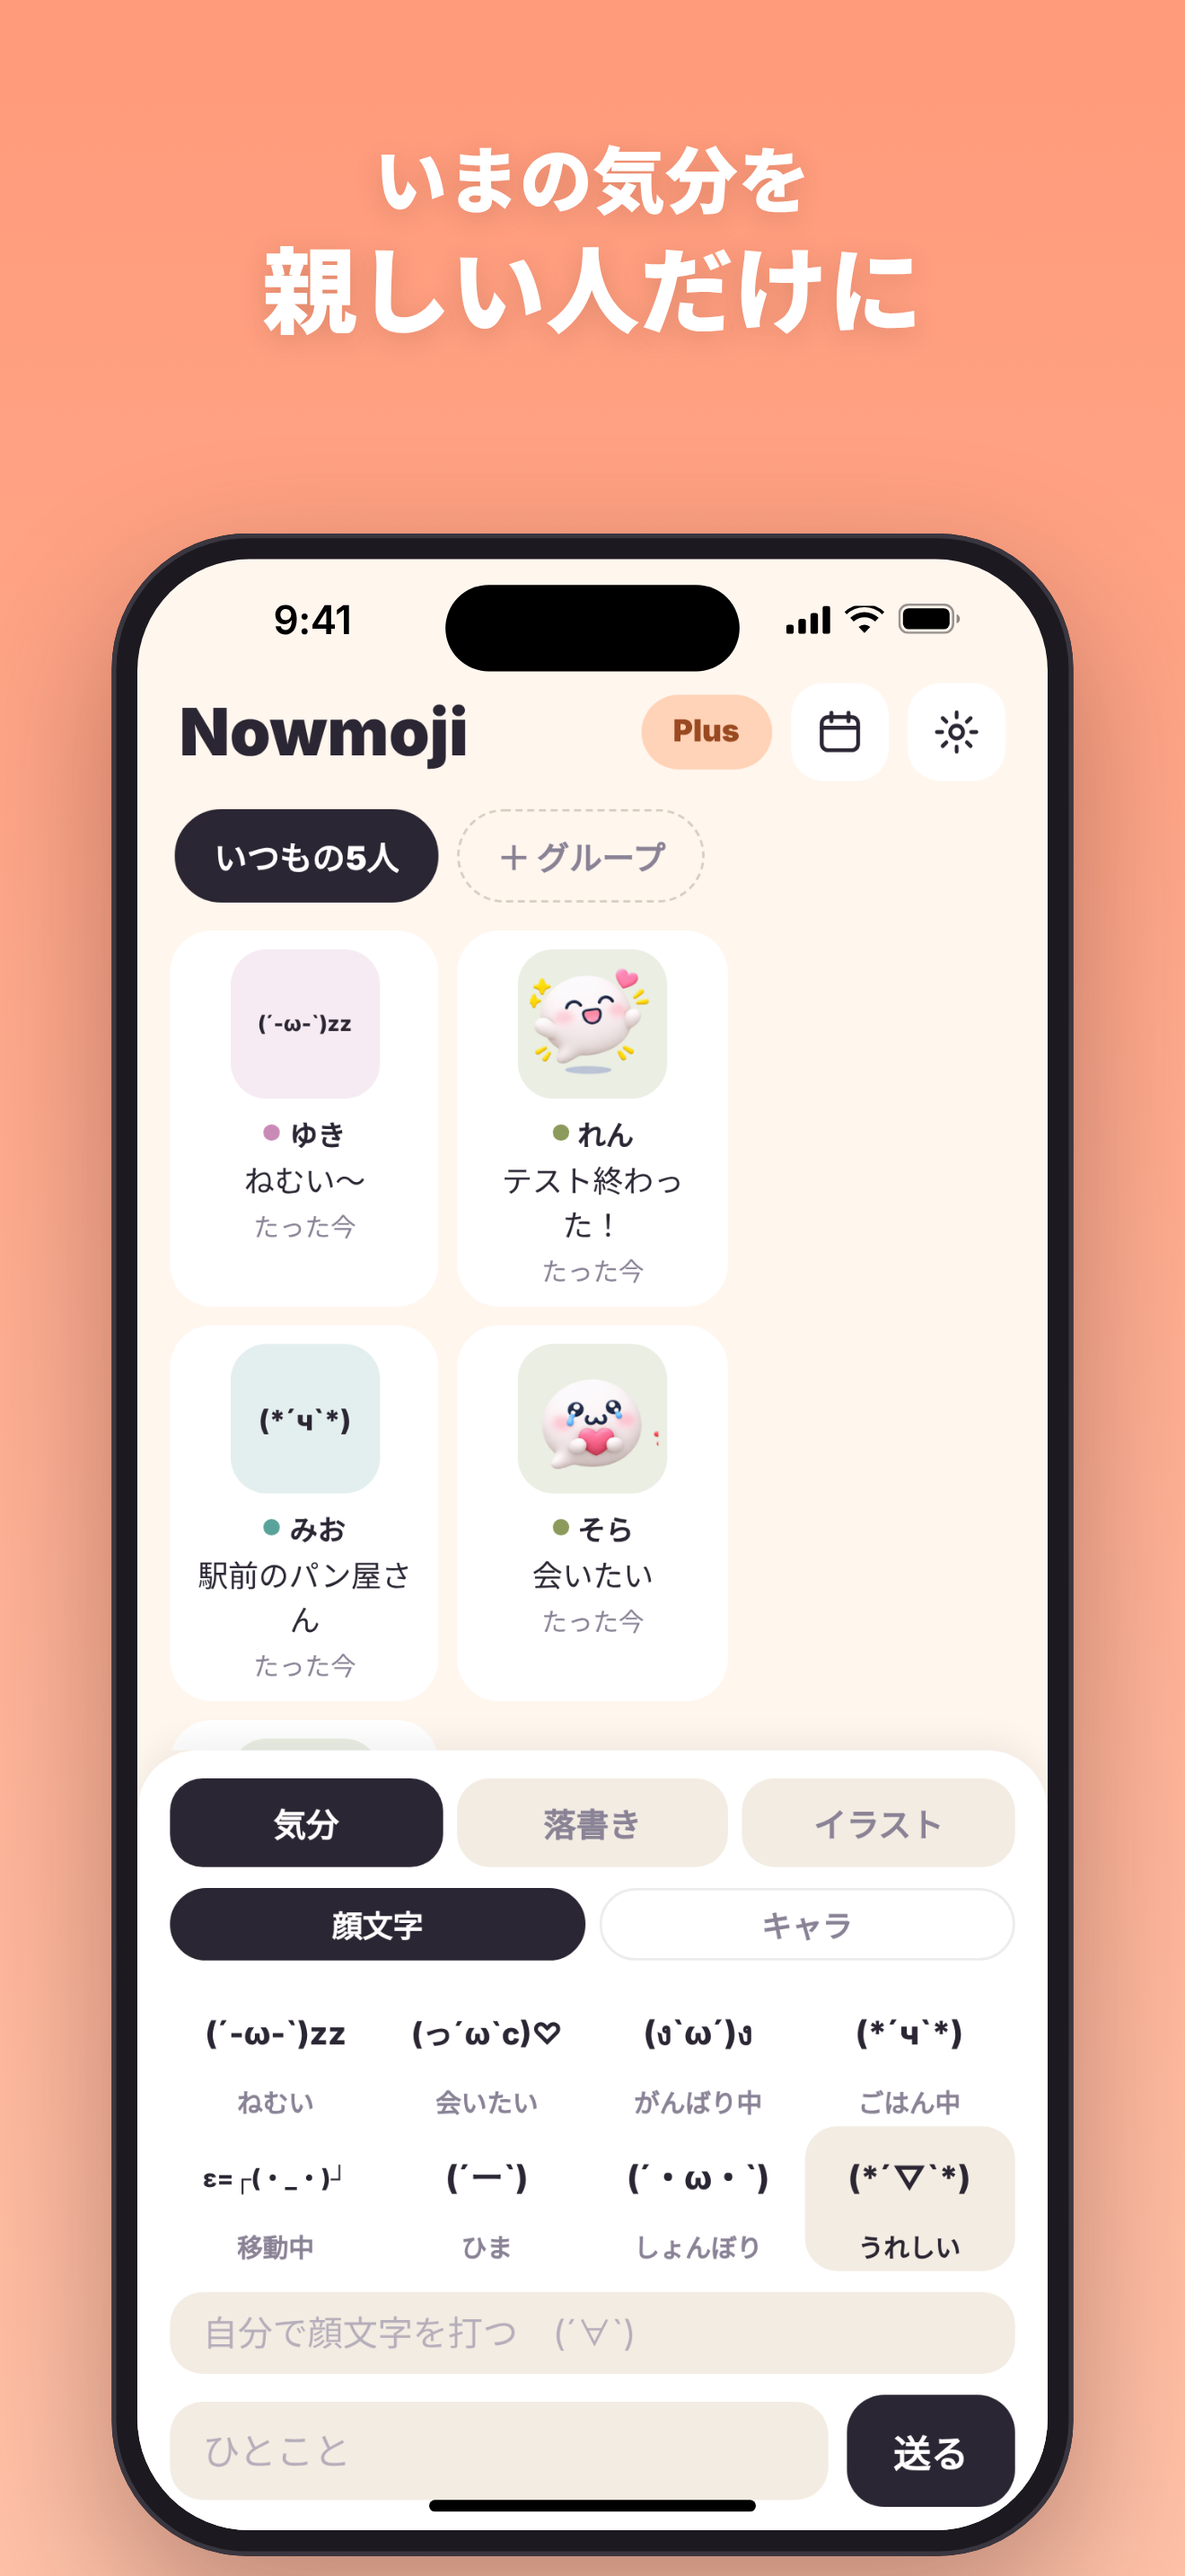
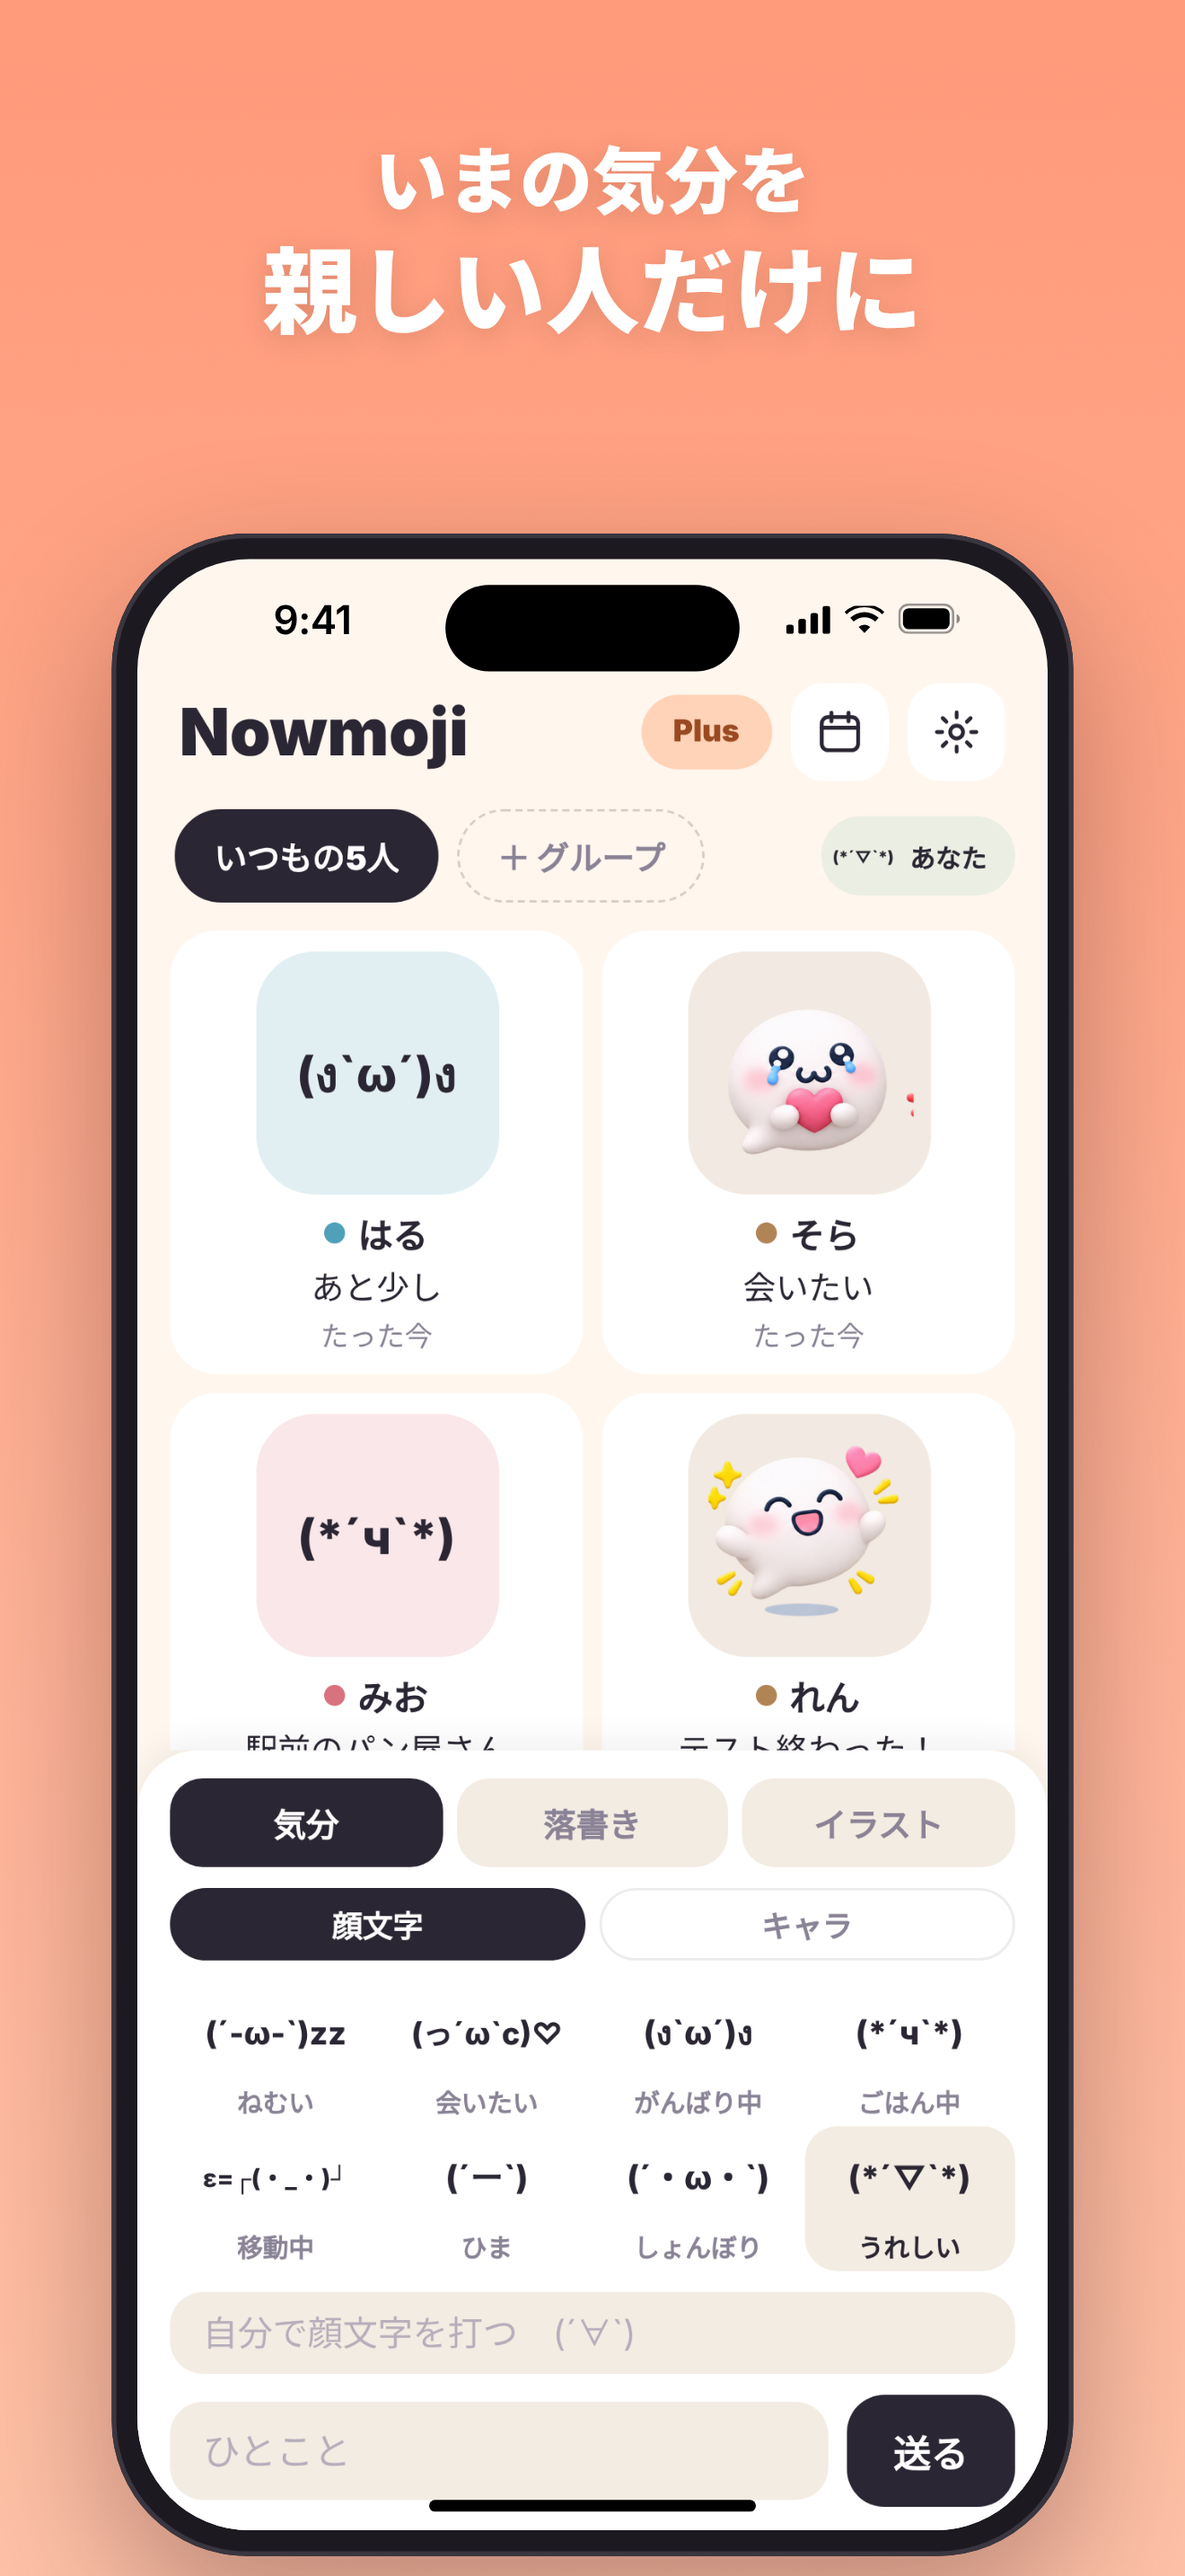
Nowmoji app: show the 4 most recent friends large, yourself small at the top right; refresh store screenshots
Claude-Session: https://claude.ai/code/session_01447UnxiL2K138aGGFaAL5v

Changed region(s): [[0.1553, 0.3724, 0.7455, 0.6827], [0.7765, 0.3103, 0.8386, 0.3414]]

diff --git a/nowmoji/App.tsx b/nowmoji/App.tsx
@@ -227,6 +227,8 @@ function Main(props: { s: Sync; apply: (s: Sync) => void; refresh: () => Promise
   };
   const others = g ? g.members.filter((m) => m.id !== s.me.id) : [];
   const blocked = new Set(s.blocked.map((b) => b.id));
+  const ordered = g ? [...others].sort((a, b) => (blocked.has(b.id) ? 0 : g.latest[b.id]?.at || 0) - (blocked.has(a.id) ? 0 : g.latest[a.id]?.at || 0)) : [];
+  const { width } = useWindowDimensions();
 
   return (
     <View style={{ flex: 1, backgroundColor: C.bg }}>
@@ -246,7 +248,8 @@ function Main(props: { s: Sync; apply: (s: Sync) => void; refresh: () => Promise
           </Pressable>
         </View>
 
-        <ScrollView horizontal showsHorizontalScrollIndicator={false} contentContainerStyle={{ paddingHorizontal: 16, paddingVertical: 12, gap: 8 }} style={{ flexGrow: 0 }}>
+        <View style={{ flexDirection: 'row', alignItems: 'center' }}>
+        <ScrollView horizontal showsHorizontalScrollIndicator={false} contentContainerStyle={{ paddingHorizontal: 16, paddingVertical: 12, gap: 8 }} style={{ flexGrow: 0, flex: 1 }}>
           {s.groups.map((x) => (
             <Pressable key={x.id} onPress={() => (x.id === g?.id ? setSheet({ k: 'group' }) : setGid(x.id))} style={[st.chip, x.id === g?.id && st.chipOn]}>
               <Text style={[st.chipT, x.id === g?.id && { color: '#fff' }]} numberOfLines={1}>{x.name}</Text>
@@ -256,30 +259,39 @@ function Main(props: { s: Sync; apply: (s: Sync) => void; refresh: () => Promise
             <Text style={[st.chipT, { color: C.sub }]}>{t.addGroup}</Text>
           </Pressable>
         </ScrollView>
+        {g ? (
+          <View style={[st.meChip, { backgroundColor: tint(s.me.color), marginRight: 14 }]}>
+            <MoodTile p={g.latest[s.me.id]} color={s.me.color} size={28} bare />
+            <Text style={{ fontSize: 11, fontWeight: '900', color: C.ink }}>{t.you}</Text>
+          </View>
+        ) : null}
+        </View>
 
         {!g ? (
           <NoGroup onNew={() => setSheet({ k: 'new' })} />
         ) : (
           <>
             <ScrollView style={{ flex: 1 }} contentContainerStyle={{ paddingHorizontal: 14, paddingBottom: 12 }}>
+              {others.length === 0 ? (
+                <Pressable onPress={() => setSheet({ k: 'group' })} style={[st.mem, { width: '100%', paddingVertical: 22 }]}>
+                  <Text style={{ fontSize: 26, color: C.ink, fontWeight: '800' }}>{ltr('(´ω`)')}</Text>
+                  <Text style={{ color: C.ink, fontWeight: '800', marginTop: 6 }}>{t.invite}</Text>
+                </Pressable>
+              ) : null}
+              {/* 友だちは最近送った順に、4人まで大きく。5人目からは小さく */}
               <View style={{ flexDirection: 'row', flexWrap: 'wrap', gap: 8 }}>
-                {others.length === 0 ? (
-                  <Pressable onPress={() => setSheet({ k: 'group' })} style={[st.mem, { width: '100%', paddingVertical: 22 }]}>
-                    <Text style={{ fontSize: 26, color: C.ink, fontWeight: '800' }}>{ltr('(´ω`)')}</Text>
-                    <Text style={{ color: C.ink, fontWeight: '800', marginTop: 6 }}>{t.invite}</Text>
-                  </Pressable>
-                ) : null}
-                {others.map((m) => {
+                {ordered.map((m, i) => {
                   const p = blocked.has(m.id) ? undefined : g.latest[m.id];
+                  const big = i < 4;
                   return (
-                    <Pressable key={m.id} style={st.mem} onLongPress={() => setSheet({ k: 'person', u: m, post: p })} delayLongPress={350}>
-                      <MoodTile p={p} color={m.color} size={64} />
-                      <View style={{ flexDirection: 'row', alignItems: 'center', gap: 4, marginTop: 4 }}>
-                        <View style={{ width: 7, height: 7, borderRadius: 4, backgroundColor: m.color }} />
-                        <Text style={{ fontWeight: '900', fontSize: 12, color: C.ink }} numberOfLines={1}>{m.name}</Text>
+                    <Pressable key={m.id} style={[st.mem, big ? { width: (width - 36) / 2, paddingVertical: 9 } : { width: (width - 48) / 3 }]} onLongPress={() => setSheet({ k: 'person', u: m, post: p })} delayLongPress={350}>
+                      <MoodTile p={p} color={m.color} size={big ? Math.min(104, (width - 38) / 2 - 30) : 52} />
+                      <View style={{ flexDirection: 'row', alignItems: 'center', gap: 5, marginTop: 4 }}>
+                        <View style={{ width: big ? 9 : 7, height: big ? 9 : 7, borderRadius: 5, backgroundColor: m.color }} />
+                        <Text style={{ fontWeight: '900', fontSize: big ? 15 : 12, color: C.ink }} numberOfLines={1}>{m.name}</Text>
                       </View>
-                      <Text style={{ fontSize: 13, color: C.ink, textAlign: 'center' }} numberOfLines={2}>{label(p) || t.nothingYet}</Text>
-                      {p ? <Text style={{ fontSize: 11, color: C.sub }}>{ago(p.at)}</Text> : null}
+                      <Text style={{ fontSize: big ? 14 : 12, color: C.ink, textAlign: 'center' }} numberOfLines={1}>{label(p) || t.nothingYet}</Text>
+                      {p ? <Text style={{ fontSize: big ? 12 : 11, color: C.sub }}>{ago(p.at)}</Text> : null}
                     </Pressable>
                   );
                 })}
@@ -348,8 +360,8 @@ const label = (p?: Post | null) => {
   return (p.mood && t.moods[p.mood]) || '';
 };
 
-function MoodTile({ p, color, size }: { p?: Post | null; color: string; size: number }) {
-  const box = { width: size, height: size, borderRadius: size * 0.24, backgroundColor: tint(color), alignItems: 'center' as const, justifyContent: 'center' as const, overflow: 'hidden' as const };
+function MoodTile({ p, color, size, bare }: { p?: Post | null; color: string; size: number; bare?: boolean }) {
+  const box = { width: size, height: size, borderRadius: size * 0.24, backgroundColor: bare ? 'transparent' : tint(color), alignItems: 'center' as const, justifyContent: 'center' as const, overflow: 'hidden' as const };
   if (!p)
     return (
       <View style={box}>
@@ -1033,7 +1045,8 @@ const st = StyleSheet.create({
   chip: { borderRadius: 999, paddingVertical: 9, paddingHorizontal: 16, backgroundColor: '#fff', borderWidth: 1.5, borderColor: '#fff', maxWidth: 180 },
   chipOn: { backgroundColor: C.ink, borderColor: C.ink },
   chipT: { fontWeight: '900', color: C.ink, fontSize: 14 },
-  mem: { width: '31.9%', backgroundColor: '#fff', borderRadius: 18, padding: 8, alignItems: 'center', gap: 2 },
+  mem: { width: '31.9%', backgroundColor: '#fff', borderRadius: 20, padding: 8, alignItems: 'center', gap: 2 },
+  meChip: { flexDirection: 'row', alignItems: 'center', gap: 6, borderRadius: 999, paddingVertical: 3, paddingLeft: 4, paddingRight: 12, maxWidth: '70%' },
   comp: { backgroundColor: '#fff', borderTopLeftRadius: 26, borderTopRightRadius: 26, paddingHorizontal: 14, paddingTop: 12, gap: 9, shadowColor: '#000', shadowOpacity: 0.06, shadowRadius: 14, shadowOffset: { width: 0, height: -4 } },
   tab: { flex: 1, borderRadius: 14, paddingVertical: 9, alignItems: 'center', backgroundColor: C.soft },
   tabOn: { backgroundColor: C.ink },
